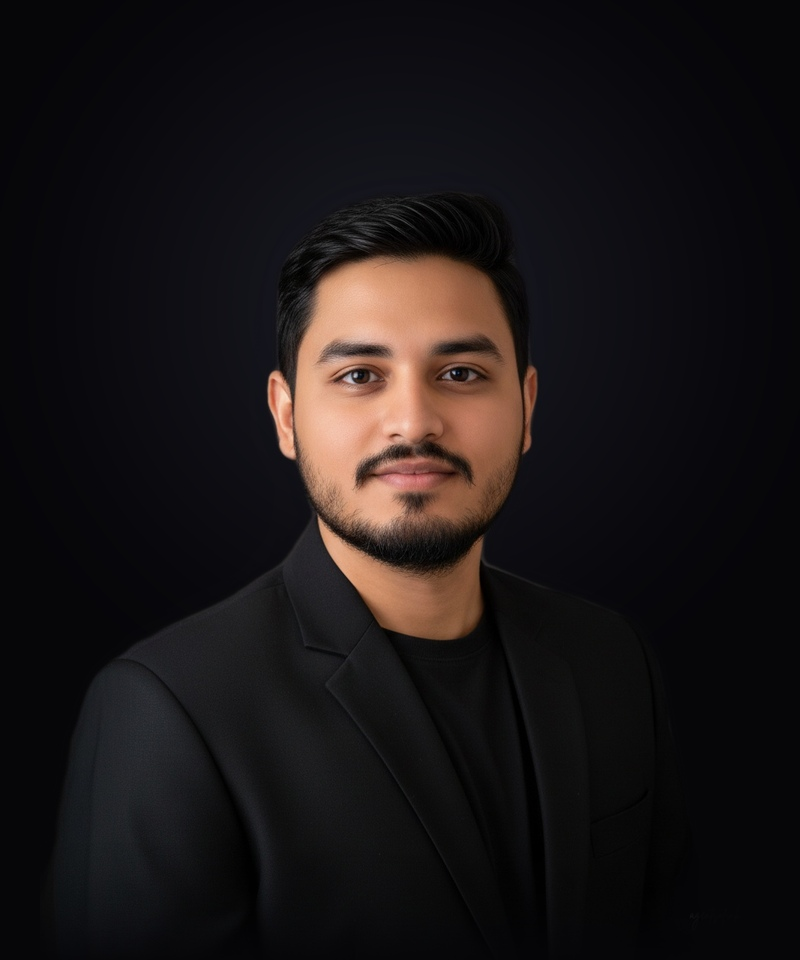
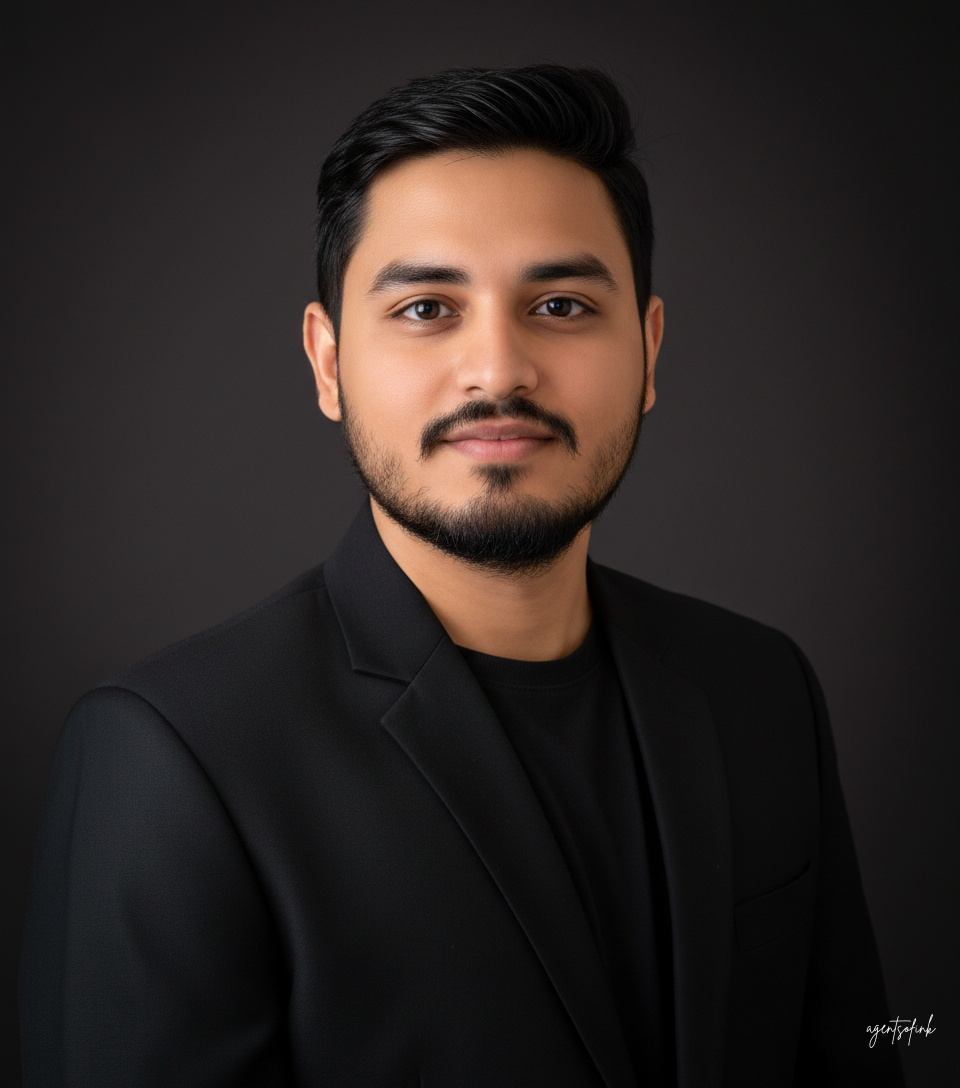
feat: update team images with new PNG assets as provided and enforce fixed border frames

diff --git a/src/components/team-page.tsx b/src/components/team-page.tsx
@@ -121,7 +121,7 @@ const mainLeadership: Leader[] = [
     name: "Rajesh More",
     role: "Founder & Visionary",
     badge: "Founder",
-    photo: "/images/rajesh-more.jpeg",
+    photo: "/images/Rajesh More.png",
     quote:
       "A bold vision becomes meaningful when it creates enduring value for students, institutions, and the digital future.",
     responsibilities: [
@@ -136,7 +136,7 @@ const mainLeadership: Leader[] = [
     name: "Pradeep Paygude",
     role: "Co-Founder & Strategic Partner",
     badge: "Co-Founder",
-    photo: "/images/pradeep-paygude.jpeg",
+    photo: "/images/Pradeep Paygude.png",
     quote:
       "Disciplined financial governance and seamless operational rhythm transform ambitious ideas into lasting impact.",
     responsibilities: [
@@ -200,7 +200,7 @@ const executiveTeam: ExecutiveRole[] = [
     title: "Chief Financial Officer",
     roleCode: "CFO",
     department: "Finance",
-    photo: "/images/pradeep-paygude.jpeg",
+    photo: "/images/Pradeep Paygude.png",
     quote:
       "Fiscal integrity, structured risk governance, and disciplined capital allocation fuel our long-term sustainable growth.",
     keyPillars: ["Capital Strategy", "Financial Governance", "Risk & Compliance"],
@@ -211,7 +211,7 @@ const executiveTeam: ExecutiveRole[] = [
     title: "Chief Operating Officer",
     roleCode: "COO",
     department: "Operations",
-    photo: "/images/pradeep-paygude.jpeg",
+    photo: "/images/Pradeep Paygude.png",
     quote:
       "Flawless operations transform strategic roadmaps into dependable, measurable daily value for colleges and partners.",
     keyPillars: ["Operational Excellence", "Process Optimization", "Delivery Systems"],
@@ -233,7 +233,7 @@ const executiveTeam: ExecutiveRole[] = [
     title: "Chief Marketing Officer",
     roleCode: "CMO",
     department: "Marketing",
-    photo: "/images/rushi-wagh.jpeg",
+    photo: "/images/rushi wagh.png",
     quote:
       "A trusted brand is built through consistent value, authentic storytelling, and meaningful relationships with academia.",
     keyPillars: ["Brand Positioning", "Institutional Outreach", "Growth Marketing"],
@@ -255,7 +255,7 @@ const executiveTeam: ExecutiveRole[] = [
     title: "Chief Product Officer",
     roleCode: "CPO",
     department: "Product",
-    photo: "/images/rajesh-more.jpeg",
+    photo: "/images/Rajesh More.png",
     quote:
       "World-class products begin by listening deeply to educators and students, crafting intuitive, impact-driven tools.",
     keyPillars: ["Product Vision", "UI/UX Excellence", "Continuous Discovery"],
@@ -736,7 +736,7 @@ export function TeamPage() {
               <article key={leader.id} className="leadership-card-dense">
                 <span className="leader-badge-neon">{leader.badge}</span>
 
-                <div className="mt-3 w-full h-[230px]">
+                <div className="mt-3 aspect-[4/3] w-full">
                   <ImagePlaceholder
                     photo={leader.photo}
                     name={leader.name}
